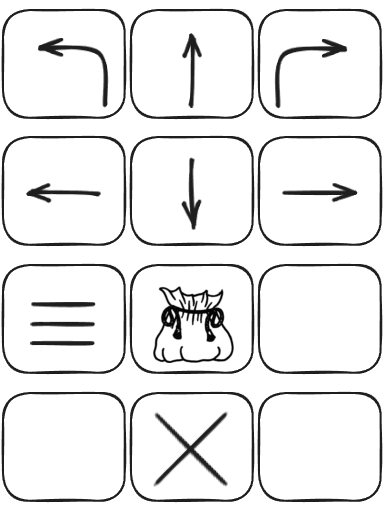
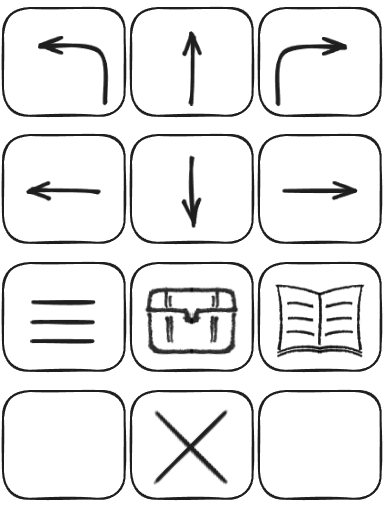
Fix wrong images for buttons (looks like regular was exported over rollover, and regular on disk had no new images)

diff --git a/Jimb-TODO.md b/Jimb-TODO.md
@@ -1,4 +1,5 @@
 TODO
+* Check background color / door fade color in each level
 * play game through once (w/ controller?) - put in some new fallback music first
   * first run:
     * first zone; bought hat, have 843 + 3 medkits, didn't have to go back to heal; afforded all bribes, 163 left;
@@ -21,8 +22,6 @@ TODO
 
 Wrap-up
 * Credits - put in names on main menu
-* Check background color / door fade color in each level
-* Check map tileset
 * Music
 
 Polish
